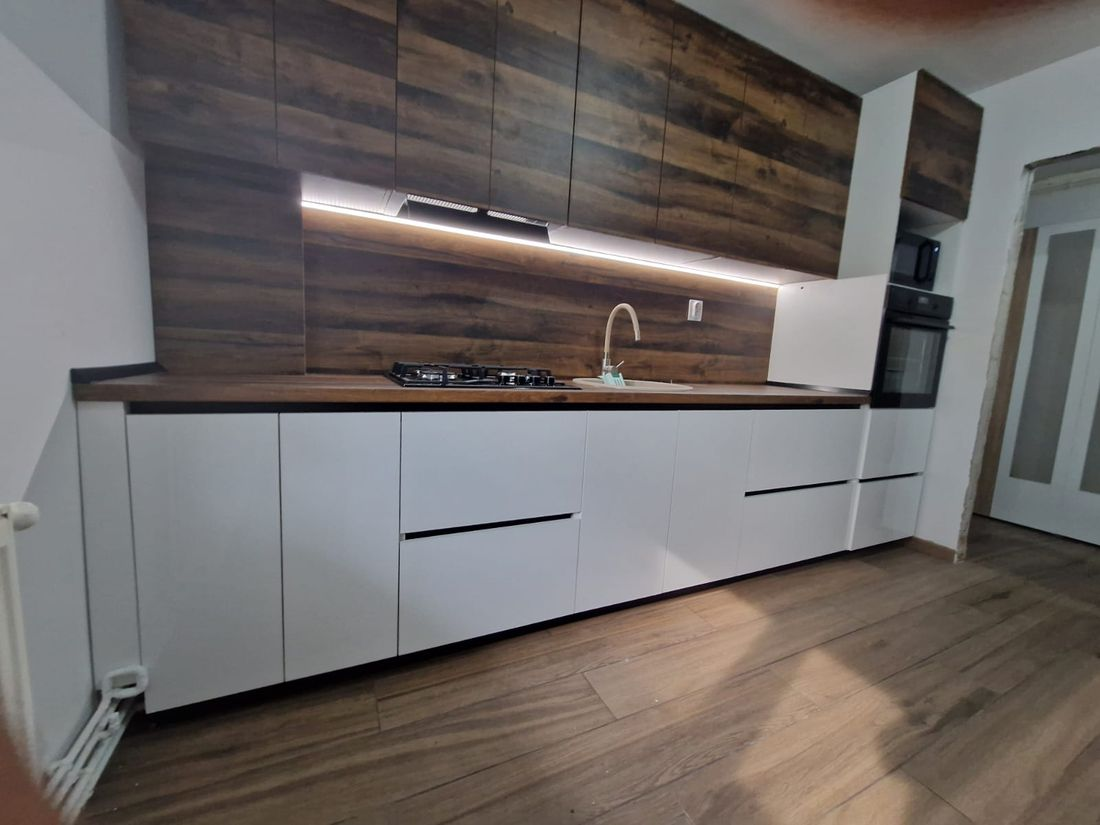
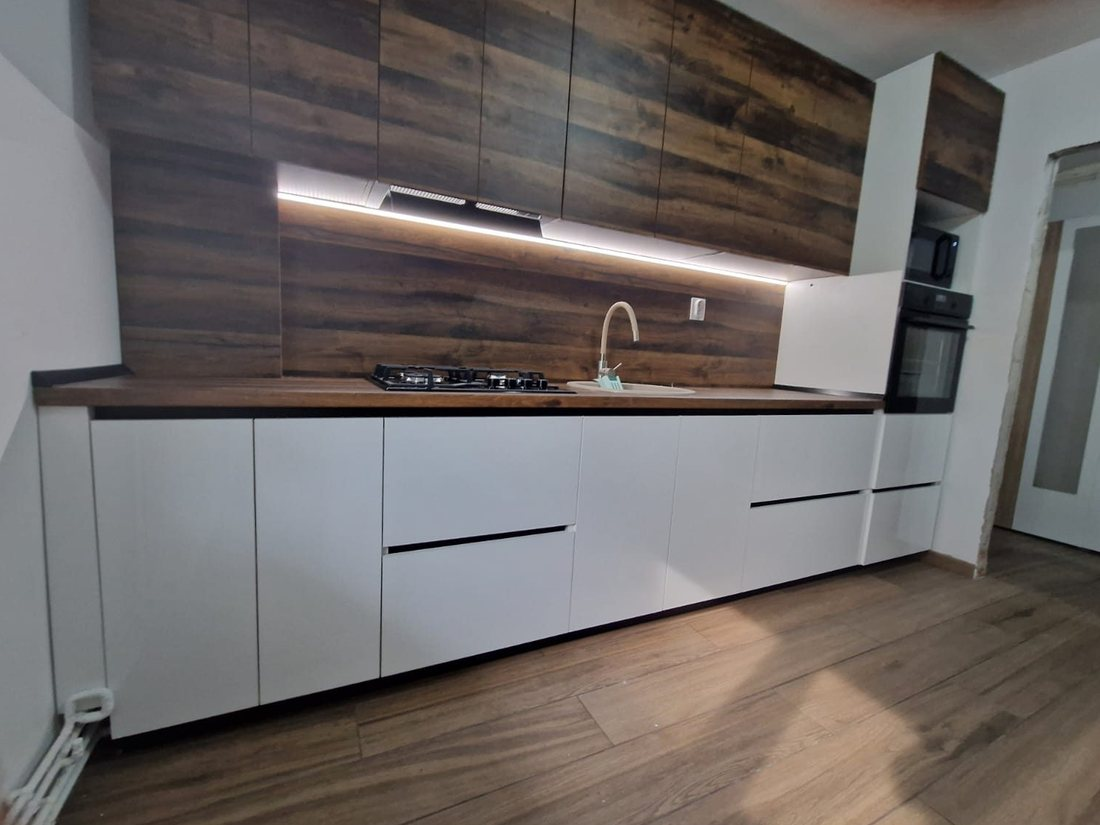
Galerie: poze noi la bucătăria albă, scoate bucătăria bej
Claude-Session: https://claude.ai/code/session_01GTtKH3jpHNDucavMmg7dYH

diff --git a/index.html b/index.html
@@ -99,11 +99,7 @@
   <div class="head"><span class="eyebrow pill pill-dark">Lucrări</span><h2>Din lucrările noastre</h2><p>Poze reale de la clienții noștri. Apasă pe o poză ca să o vezi mare.</p></div>
   <div class="project">
   <div class="project-head"><h3>Bucătărie albă cu lemn închis</h3><p>Fețe albe fără mânere, corpuri sus și placare în decor de lemn, iluminare LED</p></div>
-  <div class="photos one"><a class="ph ph-big" href="lucrari/alba-1.jpg" data-cap="Bucătărie liniară: fețe albe fără mânere, corpuri suspendate și placare în decor de lemn închis, bandă LED sub corpuri, coloană pentru cuptor și cuptor cu microunde încorporabile"><img src="lucrari/alba-1-mic.jpg" srcset="lucrari/alba-1-mic.jpg 720w, lucrari/alba-1.jpg 1600w" sizes="(min-width:900px) 60vw, 100vw" alt="Bucătărie albă cu lemn închis: bucătărie liniară: fețe albe fără mânere, corpuri suspendate și placare în decor de lemn închis, bandă LED sub corpuri, coloană pentru cuptor și cuptor cu microunde încorporabile" loading="lazy" width="1600" height="1200"><span class="ph-cap">Bucătărie liniară: fețe albe fără mânere, corpuri suspendate și placare în decor de lemn închis, bandă LED sub corpuri, coloană pentru cuptor și cuptor cu microunde încorporabile</span></a></div>
-</div>
-<div class="project">
-  <div class="project-head"><h3>Bucătărie bej cu raft deschis</h3><p>Corpuri până la cornișă, raft deschis și sertare mari</p></div>
-  <div class="photos"><a class="ph ph-big" href="lucrari/bucatarie-1.jpg" data-cap="Corpuri suspendate și raft deschis pentru căni și farfurii"><img src="lucrari/bucatarie-1-mic.jpg" srcset="lucrari/bucatarie-1-mic.jpg 720w, lucrari/bucatarie-1.jpg 1600w" sizes="(min-width:900px) 60vw, 100vw" alt="Bucătărie bej cu raft deschis: corpuri suspendate și raft deschis pentru căni și farfurii" loading="lazy" width="4080" height="3072"><span class="ph-cap">Corpuri suspendate și raft deschis pentru căni și farfurii</span></a><a class="ph" href="lucrari/bucatarie-2.jpg" data-cap="Corpuri suspendate pe toată lungimea peretelui, până la cornișă"><img src="lucrari/bucatarie-2-mic.jpg" srcset="lucrari/bucatarie-2-mic.jpg 720w, lucrari/bucatarie-2.jpg 1600w" sizes="(min-width:900px) 60vw, 100vw" alt="Bucătărie bej cu raft deschis: corpuri suspendate pe toată lungimea peretelui, până la cornișă" loading="lazy" width="4080" height="3072"><span class="ph-cap">Corpuri suspendate pe toată lungimea peretelui, până la cornișă</span></a><a class="ph" href="lucrari/bucatarie-3.jpg" data-cap="Corpuri jos cu sertare mari și picioare reglabile"><img src="lucrari/bucatarie-3-mic.jpg" srcset="lucrari/bucatarie-3-mic.jpg 720w, lucrari/bucatarie-3.jpg 1600w" sizes="(min-width:900px) 60vw, 100vw" alt="Bucătărie bej cu raft deschis: corpuri jos cu sertare mari și picioare reglabile" loading="lazy" width="4080" height="3072"><span class="ph-cap">Corpuri jos cu sertare mari și picioare reglabile</span></a><a class="ph ph-tall" href="lucrari/bucatarie-4.jpg" data-cap="Coloană cu nișă pentru cuptorul cu microunde și dulap înalt"><img src="lucrari/bucatarie-4-mic.jpg" srcset="lucrari/bucatarie-4-mic.jpg 720w, lucrari/bucatarie-4.jpg 1600w" sizes="(min-width:900px) 60vw, 100vw" alt="Bucătărie bej cu raft deschis: coloană cu nișă pentru cuptorul cu microunde și dulap înalt" loading="lazy" width="2467" height="3935"><span class="ph-cap">Coloană cu nișă pentru cuptorul cu microunde și dulap înalt</span></a></div>
+  <div class="photos trei"><a class="ph ph-big" href="lucrari/alba-2.jpg" data-cap="Bucătărie liniară: corpuri jos albe fără mânere, blat, placare și corpuri suspendate în decor de lemn închis, cu bandă LED"><img src="lucrari/alba-2-mic.jpg" srcset="lucrari/alba-2-mic.jpg 720w, lucrari/alba-2.jpg 1600w" sizes="(min-width:900px) 60vw, 100vw" alt="Bucătărie albă cu lemn închis: bucătărie liniară: corpuri jos albe fără mânere, blat, placare și corpuri suspendate în decor de lemn închis, cu bandă LED" loading="lazy" width="1400" height="1200"><span class="ph-cap">Bucătărie liniară: corpuri jos albe fără mânere, blat, placare și corpuri suspendate în decor de lemn închis, cu bandă LED</span></a><a class="ph" href="lucrari/alba-3.jpg" data-cap="Coloană pentru cuptor și cuptor cu microunde încorporabile, lângă sertare mari"><img src="lucrari/alba-3-mic.jpg" srcset="lucrari/alba-3-mic.jpg 720w, lucrari/alba-3.jpg 1600w" sizes="(min-width:900px) 60vw, 100vw" alt="Bucătărie albă cu lemn închis: coloană pentru cuptor și cuptor cu microunde încorporabile, lângă sertare mari" loading="lazy" width="1240" height="930"><span class="ph-cap">Coloană pentru cuptor și cuptor cu microunde încorporabile, lângă sertare mari</span></a><a class="ph" href="lucrari/alba-1.jpg" data-cap="Iluminare LED sub corpurile suspendate și hotă încastrată"><img src="lucrari/alba-1-mic.jpg" srcset="lucrari/alba-1-mic.jpg 720w, lucrari/alba-1.jpg 1600w" sizes="(min-width:900px) 60vw, 100vw" alt="Bucătărie albă cu lemn închis: iluminare LED sub corpurile suspendate și hotă încastrată" loading="lazy" width="1600" height="1200"><span class="ph-cap">Iluminare LED sub corpurile suspendate și hotă încastrată</span></a></div>
 </div>
 <div class="lb" id="lb" hidden><button class="lb-x" type="button" aria-label="Închide">×</button><button class="lb-p" type="button" aria-label="Poza anterioară">‹</button><figure><img alt=""><figcaption></figcaption></figure><button class="lb-n" type="button" aria-label="Poza următoare">›</button></div>
 <script>

diff --git a/bucatarii-la-comanda.html b/bucatarii-la-comanda.html
@@ -79,11 +79,7 @@
   <div class="head"><span class="eyebrow pill pill-dark">Lucrări</span><h2>Bucătării făcute de noi</h2><p>Apasă pe o poză ca să o vezi mare.</p></div>
   <div class="project">
   <div class="project-head"><h3>Bucătărie albă cu lemn închis</h3><p>Fețe albe fără mânere, corpuri sus și placare în decor de lemn, iluminare LED</p></div>
-  <div class="photos one"><a class="ph ph-big" href="lucrari/alba-1.jpg" data-cap="Bucătărie liniară: fețe albe fără mânere, corpuri suspendate și placare în decor de lemn închis, bandă LED sub corpuri, coloană pentru cuptor și cuptor cu microunde încorporabile"><img src="lucrari/alba-1-mic.jpg" srcset="lucrari/alba-1-mic.jpg 720w, lucrari/alba-1.jpg 1600w" sizes="(min-width:900px) 60vw, 100vw" alt="Bucătărie albă cu lemn închis: bucătărie liniară: fețe albe fără mânere, corpuri suspendate și placare în decor de lemn închis, bandă LED sub corpuri, coloană pentru cuptor și cuptor cu microunde încorporabile" loading="lazy" width="1600" height="1200"><span class="ph-cap">Bucătărie liniară: fețe albe fără mânere, corpuri suspendate și placare în decor de lemn închis, bandă LED sub corpuri, coloană pentru cuptor și cuptor cu microunde încorporabile</span></a></div>
-</div>
-<div class="project">
-  <div class="project-head"><h3>Bucătărie bej cu raft deschis</h3><p>Corpuri până la cornișă, raft deschis și sertare mari</p></div>
-  <div class="photos"><a class="ph ph-big" href="lucrari/bucatarie-1.jpg" data-cap="Corpuri suspendate și raft deschis pentru căni și farfurii"><img src="lucrari/bucatarie-1-mic.jpg" srcset="lucrari/bucatarie-1-mic.jpg 720w, lucrari/bucatarie-1.jpg 1600w" sizes="(min-width:900px) 60vw, 100vw" alt="Bucătărie bej cu raft deschis: corpuri suspendate și raft deschis pentru căni și farfurii" loading="lazy" width="4080" height="3072"><span class="ph-cap">Corpuri suspendate și raft deschis pentru căni și farfurii</span></a><a class="ph" href="lucrari/bucatarie-2.jpg" data-cap="Corpuri suspendate pe toată lungimea peretelui, până la cornișă"><img src="lucrari/bucatarie-2-mic.jpg" srcset="lucrari/bucatarie-2-mic.jpg 720w, lucrari/bucatarie-2.jpg 1600w" sizes="(min-width:900px) 60vw, 100vw" alt="Bucătărie bej cu raft deschis: corpuri suspendate pe toată lungimea peretelui, până la cornișă" loading="lazy" width="4080" height="3072"><span class="ph-cap">Corpuri suspendate pe toată lungimea peretelui, până la cornișă</span></a><a class="ph" href="lucrari/bucatarie-3.jpg" data-cap="Corpuri jos cu sertare mari și picioare reglabile"><img src="lucrari/bucatarie-3-mic.jpg" srcset="lucrari/bucatarie-3-mic.jpg 720w, lucrari/bucatarie-3.jpg 1600w" sizes="(min-width:900px) 60vw, 100vw" alt="Bucătărie bej cu raft deschis: corpuri jos cu sertare mari și picioare reglabile" loading="lazy" width="4080" height="3072"><span class="ph-cap">Corpuri jos cu sertare mari și picioare reglabile</span></a><a class="ph ph-tall" href="lucrari/bucatarie-4.jpg" data-cap="Coloană cu nișă pentru cuptorul cu microunde și dulap înalt"><img src="lucrari/bucatarie-4-mic.jpg" srcset="lucrari/bucatarie-4-mic.jpg 720w, lucrari/bucatarie-4.jpg 1600w" sizes="(min-width:900px) 60vw, 100vw" alt="Bucătărie bej cu raft deschis: coloană cu nișă pentru cuptorul cu microunde și dulap înalt" loading="lazy" width="2467" height="3935"><span class="ph-cap">Coloană cu nișă pentru cuptorul cu microunde și dulap înalt</span></a></div>
+  <div class="photos trei"><a class="ph ph-big" href="lucrari/alba-2.jpg" data-cap="Bucătărie liniară: corpuri jos albe fără mânere, blat, placare și corpuri suspendate în decor de lemn închis, cu bandă LED"><img src="lucrari/alba-2-mic.jpg" srcset="lucrari/alba-2-mic.jpg 720w, lucrari/alba-2.jpg 1600w" sizes="(min-width:900px) 60vw, 100vw" alt="Bucătărie albă cu lemn închis: bucătărie liniară: corpuri jos albe fără mânere, blat, placare și corpuri suspendate în decor de lemn închis, cu bandă LED" loading="lazy" width="1400" height="1200"><span class="ph-cap">Bucătărie liniară: corpuri jos albe fără mânere, blat, placare și corpuri suspendate în decor de lemn închis, cu bandă LED</span></a><a class="ph" href="lucrari/alba-3.jpg" data-cap="Coloană pentru cuptor și cuptor cu microunde încorporabile, lângă sertare mari"><img src="lucrari/alba-3-mic.jpg" srcset="lucrari/alba-3-mic.jpg 720w, lucrari/alba-3.jpg 1600w" sizes="(min-width:900px) 60vw, 100vw" alt="Bucătărie albă cu lemn închis: coloană pentru cuptor și cuptor cu microunde încorporabile, lângă sertare mari" loading="lazy" width="1240" height="930"><span class="ph-cap">Coloană pentru cuptor și cuptor cu microunde încorporabile, lângă sertare mari</span></a><a class="ph" href="lucrari/alba-1.jpg" data-cap="Iluminare LED sub corpurile suspendate și hotă încastrată"><img src="lucrari/alba-1-mic.jpg" srcset="lucrari/alba-1-mic.jpg 720w, lucrari/alba-1.jpg 1600w" sizes="(min-width:900px) 60vw, 100vw" alt="Bucătărie albă cu lemn închis: iluminare LED sub corpurile suspendate și hotă încastrată" loading="lazy" width="1600" height="1200"><span class="ph-cap">Iluminare LED sub corpurile suspendate și hotă încastrată</span></a></div>
 </div>
 <div class="lb" id="lb" hidden><button class="lb-x" type="button" aria-label="Închide">×</button><button class="lb-p" type="button" aria-label="Poza anterioară">‹</button><figure><img alt=""><figcaption></figcaption></figure><button class="lb-n" type="button" aria-label="Poza următoare">›</button></div>
 <script>

diff --git a/_generator/style.css b/_generator/style.css
@@ -393,6 +393,7 @@ section{padding:64px 0}
 .photos.one{grid-template-columns:1fr;grid-template-rows:none}
 .photos.one .ph-big{grid-column:1;grid-row:auto;aspect-ratio:16/9}
 .photos.one .ph-big img{object-position:center 45%}
+@media(min-width:900px){.photos.trei{grid-template-columns:2fr 1fr}.photos.trei .ph-big{aspect-ratio:7/6}.photos.trei .ph:not(.ph-big){aspect-ratio:auto;min-height:0}.photos.trei .ph img{position:absolute;inset:0}}
 .hero-photo{width:100%;max-width:520px;height:auto;border-radius:18px;box-shadow:0 30px 60px -30px rgba(43,36,31,.55);border:6px solid #fff}
 
 /* materiale */

diff --git a/style.css b/style.css
@@ -393,6 +393,7 @@ section{padding:64px 0}
 .photos.one{grid-template-columns:1fr;grid-template-rows:none}
 .photos.one .ph-big{grid-column:1;grid-row:auto;aspect-ratio:16/9}
 .photos.one .ph-big img{object-position:center 45%}
+@media(min-width:900px){.photos.trei{grid-template-columns:2fr 1fr}.photos.trei .ph-big{aspect-ratio:7/6}.photos.trei .ph:not(.ph-big){aspect-ratio:auto;min-height:0}.photos.trei .ph img{position:absolute;inset:0}}
 .hero-photo{width:100%;max-width:520px;height:auto;border-radius:18px;box-shadow:0 30px 60px -30px rgba(43,36,31,.55);border:6px solid #fff}
 
 /* materiale */

diff --git a/_generator/build.py b/_generator/build.py
@@ -240,12 +240,9 @@ def prod_cards():
 
 PROIECTE = [
     dict(titlu="Bucătărie albă cu lemn închis", sub="Fețe albe fără mânere, corpuri sus și placare în decor de lemn, iluminare LED",
-         poze=[("alba-1", "Bucătărie liniară: fețe albe fără mânere, corpuri suspendate și placare în decor de lemn închis, bandă LED sub corpuri, coloană pentru cuptor și cuptor cu microunde încorporabile", 1600, 1200)]),
-    dict(titlu="Bucătărie bej cu raft deschis", sub="Corpuri până la cornișă, raft deschis și sertare mari",
-         poze=[("bucatarie-1", "Corpuri suspendate și raft deschis pentru căni și farfurii", 4080, 3072),
-               ("bucatarie-2", "Corpuri suspendate pe toată lungimea peretelui, până la cornișă", 4080, 3072),
-               ("bucatarie-3", "Corpuri jos cu sertare mari și picioare reglabile", 4080, 3072),
-               ("bucatarie-4", "Coloană cu nișă pentru cuptorul cu microunde și dulap înalt", 2467, 3935)]),
+         poze=[("alba-2", "Bucătărie liniară: corpuri jos albe fără mânere, blat, placare și corpuri suspendate în decor de lemn închis, cu bandă LED", 1400, 1200),
+               ("alba-3", "Coloană pentru cuptor și cuptor cu microunde încorporabile, lângă sertare mari", 1240, 930),
+               ("alba-1", "Iluminare LED sub corpurile suspendate și hotă încastrată", 1600, 1200)]),
 ]
 def galerie():
     out = ""
@@ -257,7 +254,7 @@ def galerie():
                       f'<img src="lucrari/{f}-mic.jpg" srcset="lucrari/{f}-mic.jpg 720w, lucrari/{f}.jpg 1600w" '
                       f'sizes="(min-width:900px) 60vw, 100vw" alt="{pr["titlu"]}: {alt[0].lower() + alt[1:]}" loading="lazy" width="{w}" height="{h}">'
                       f'<span class="ph-cap">{alt}</span></a>')
-        one = " one" if len(pr["poze"]) == 1 else ""
+        one = {1: " one", 3: " trei"}.get(len(pr["poze"]), "")
         out += f'''<div class="project">
   <div class="project-head"><h3>{pr["titlu"]}</h3><p>{pr["sub"]}</p></div>
   <div class="photos{one}">{tiles}</div>
